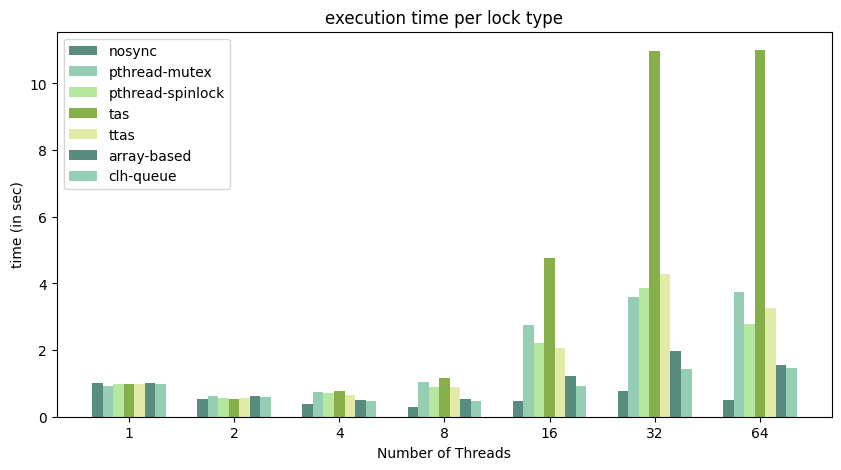
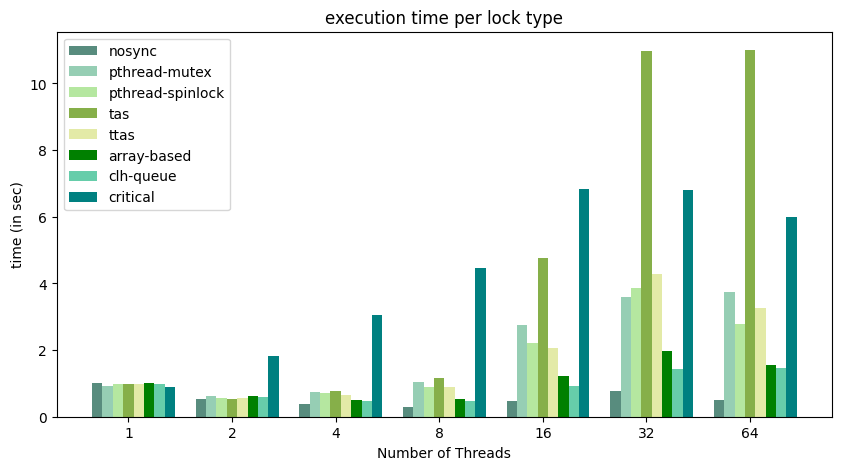
plot with critical

Changed region(s): [[0.2473, 0.0894, 0.9584, 0.9234], [0.0618, 0.2979, 0.1855, 0.4468], [0.1546, 0.8043, 0.2164, 0.8936]]

diff --git a/Lab3/plot_critical.py b/Lab3/plot_critical.py
@@ -30,17 +30,20 @@ def plot_time_speedup():
         values_time = list(data_time[lock].values())
         print(values_time)
     fig = plt.figure(figsize = (10, 5))
-    colors= ["#588c7e", "#96ceb4" ,"#b5e7a0","#86af49", "#e3eaa7", "#588c7e", "#96ceb4" ,"#b5e7a0","#86af49"]
+    colors= ["#588c7e", "#96ceb4" ,"#b5e7a0","#86af49", "#e3eaa7",  "green","mediumaquamarine", "teal"]
     legend_ = []
     for index, lock in enumerate(locks):
         values_time = list(data_time[lock].values())
         legend_.append(plt.bar(np.arange(len(threads)) -0.3+index*0.1 , values_time, color =colors[index],
         width =0.1))
+    values_time = [0.8952, 1.8086, 3.0666, 4.4614, 6.8206, 6.8162, 6.006]
+    legend_.append(plt.bar(np.arange(len(threads)) -0.3+index*0.1+0.1 , values_time, color =colors[index+1],
+        width =0.1))
     plt.xticks(np.arange(len(threads)) , threads)
     plt.xlabel("Number of Threads")
     plt.ylabel("time (in sec)")
     plt.title("execution time per lock type")
-    plt.legend((legend_[0], legend_[1], legend_[2], legend_[3], legend_[4], legend_[5], legend_[6]), ("nosync","pthread-mutex", "pthread-spinlock", "tas", "ttas", "array-based", "clh-queue"))
+    plt.legend((legend_[0], legend_[1], legend_[2], legend_[3], legend_[4], legend_[5], legend_[6], legend_[7]), ("nosync","pthread-mutex", "pthread-spinlock", "tas", "ttas", "array-based", "clh-queue", "critical"))
     plt.savefig("plot_time", bbox_inches="tight")
     fp.close() 
         
